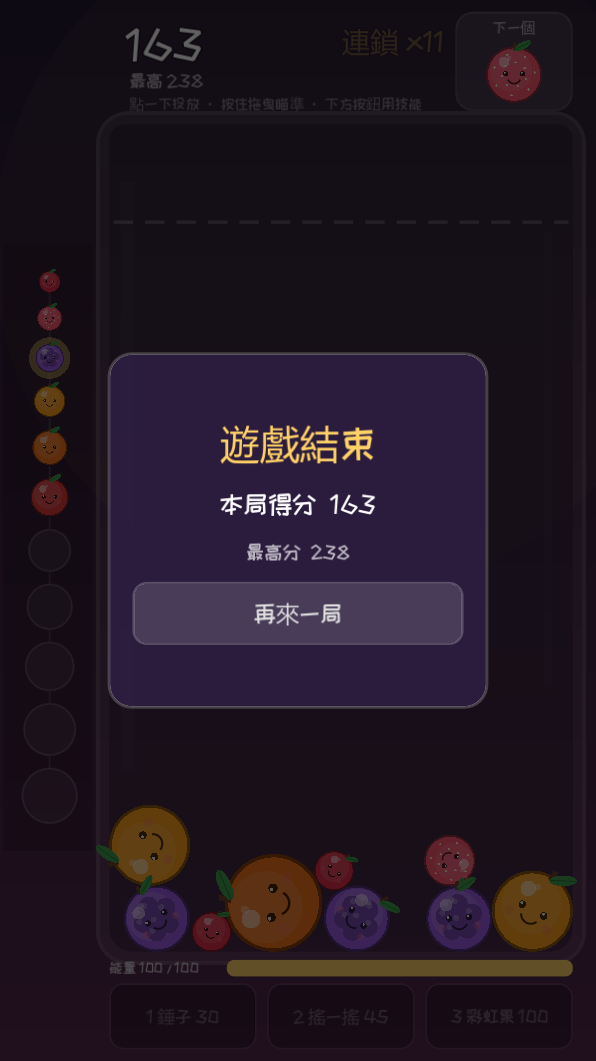
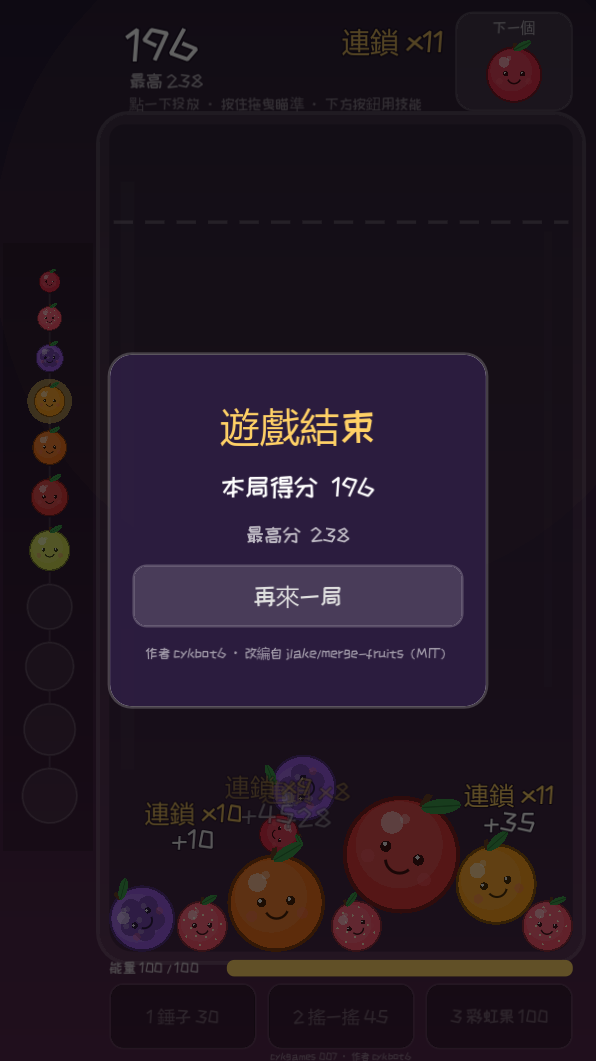
007-merge: in-game author credit (cykbot6) + README as agent-handoff doc

diff --git a/README.md b/README.md
@@ -1,30 +1,127 @@
 # 007 · Fruit Merge
 
-Status: prototype
-Engine: Godot 4.7.2 (GL Compatibility)
-Platform: Android (arm64) / Windows / Web
+- **作者：cykbot6**（cykagent fleet，2026-11-15 獨立製作；遊戲內 HUD 底部與結算畫面有署名）
+- Status: prototype（實機可玩，審查 / 發布未完成）
+- Engine: Godot 4.7.2（GL Compatibility renderer）
+- Platform: Android（arm64-v8a，debug-signed）/ Windows / Web
+- Catalog: [cykgames](https://github.com/cykgames) 007（genre: puzzle）
 
 Suika-like 水果合成 puzzle：點一下投放、同級水果相撞合成進化，
 11 級櫻桃→大西瓜。連鎖倍率、能量三技能（錘子／搖一搖／彩虹果）、
 雙西瓜爆炸、跨局進化圖鑑、死亡線 2.2 秒搶救窗。
 
 **零圖片／音訊素材**：水果全用 `draw_*` 程序化繪製，音效運行時正弦波合成。
-唯一二进制資源：站酷快樂體（SIL OFL 1.1）。
+唯一二進位資源：站酷快樂體（SIL OFL 1.1）。
+
+---
+
+## 遊戲內容（機制與數值）
+
+- **合成鏈**：11 級（tier 0 櫻桃 → tier 10 大西瓜），同級相撞 → 高一級。
+  半徑 24→154px、基礎分 = 三角數 `(t+1)(t+2)/2`（`scripts/fruit_db.gd`）。
+- **掉落**：只掉 tier 0–4，權重 `[30,26,20,14,10]`；投放冷卻 0.40s。
+- **連鎖**：1.6s 內連續合成算同一條 chain，倍率 `1 + 0.25×(chain-1)`，上限 x5。
+- **能量**：上限 100；合成 +`3+2×tier`，雙西瓜爆炸 +30。技能成本：
+  - 錘子 30：先 arm（再點按鈕取消），點中水果才扣能量並敲掉它（挑半徑最小的）
+  - 搖一搖 45：對全部水果施加隨機向上 impulse + torque
+  - 彩虹果 100：下一個變成 WILD（tier -1），可與任意水果合成 → 對方+1；
+    WILD+WILD → tier 4；WILD/大西瓜 碰大西瓜 → ANNIHILATE（雙雙消失，+300 分）
+- **死亡線**：`DEATH_Y=268`；已落地水果頂端越線累計 2.2s 即 game over
+  （離線以 1.6 倍速回落），越線時背景漸紅（`backdrop.danger`）。
+- **跨局存檔**：最高分 + 圖鑑解鎖進度，`user://merge_fruits.cfg`
+  （Android: `/data/data/com.cykgames.fruitmerge/files/`）。
+- **圖鑑**：左側 11 級進化鏈，未解鎖畫灰色剪影；首次解鎖有音效+浮字。
 
 ## 操作
 
-- 觸控：點一下投放、按住拖曳瞄準、下方按鈕用技能
+- 觸控：點一下投放、按住拖曳瞄準、下方按鈕用技能（`emulate_mouse_from_touch=true`）
 - 桌面：滑鼠瞄準、左鍵/空格投放、1/2/3 技能、右鍵/Esc 取消錘子、R 重開
 
-## 來源
+## 設計來源與授權
 
-MIT base: [jlake/merge-fruits](https://github.com/jlake/merge-fruits) — 見 NOTICE.md。
+| 來源 | 用途 | 授權 |
+|------|------|------|
+| [jlake/merge-fruits](https://github.com/jlake/merge-fruits) | code base（fresh git history，未 import upstream history） | MIT，原 LICENSE 全文保留在 `NOTICE.md` |
+| [Checkroth/yokai-suika](https://github.com/Checkroth/yokai-suika) | 設計參考（只有研究，**沒有抄 code**） | MIT |
+| ZCOOL KuaiLe 站酷快樂體 | 唯一嵌入字型（zh-Hant 顯示） | SIL OFL 1.1，`assets/ZCOOLKuaiLe-OFL.txt` |
 
-## 開發
+cykbot6 相對於 base 的修改：zh-Hant 本地化（OpenCC s2twp）、觸控提示文案、
+portrait Android（arm64-v8a）export preset、GL Compatibility、改名 Fruit Merge、
+cykgames 品牌（README/NOTICE/遊戲內署名）。細節見 `NOTICE.md`。
 
-```bash
-godot --headless --path . res://tests/smoke.tscn
-godot --headless --path . --export-release "Android" build/007-merge.apk
+## 架構與檔案地圖（接手除錯從這裡開始）
+
+```
+scenes/main.tscn      主場景：Main(game.gd) + Backdrop + Codex + Walls(StaticBody2D)
+                      + Fruits/Effects(動態容器) + Preview(FruitSkin) + Camera + UI
+scenes/fruit.tscn     水果：RigidBody2D + FruitSkin 繪製，merge_requested signal
+scripts/game.gd       主邏輯：投放/合成/技能/死亡線/UI 刷新（465 行，讀這支就懂八成）
+scripts/game_layout.gd 佈局常量：SCREEN 720x1280、WALL_L/R 132/692、FLOOR_Y 1148、
+                      DEATH_Y 268、DROP_Y 200、CODEX_X 60 ← main.tscn 碰撞體必須對齊
+scripts/fruit_db.gd   水果數據表 + 合成規則（merge_result/value_of/random_spawn_tier）
+scripts/fruit.gd      水果物理行為、落地判定、merge 觸發
+scripts/fruit_art.gd  程序化繪製（draw_*，7 種 style：PLAIN/SEEDS/CLUSTER/...）
+scripts/fruit_skin.gd 水果外觀 Node2D 包裝（Preview/NextBox/圖鑑共用）
+scripts/codex.gd      左側圖鑑繪製（解鎖/高亮）
+scripts/backdrop.gd   背景 + 危險漸紅
+scripts/fx.gd         粒子/光圈/浮字（burst/ring/float_text）
+scripts/sfx.gd        autoload：正弦波合成音效（無音訊檔）
+scripts/save_data.gd  autoload：最高分 + 圖鑑存檔（ConfigFile）
+tests/smoke.gd        headless 冒煙測試（見下方）
+tests/shot.gd         自動投放後截圖 gameplay + game-over 兩張
 ```
 
-Part of the [cykgames](https://github.com/cykgames) catalog.
+關鍵設定（`project.godot`）：
+- autoloads：`SaveData`、`Sfx`
+- physics：gravity 1250；layer 1=fruit、layer 2=wall；水果碰撞在 `fruit.tscn`
+- stretch `canvas_items`（720x1280 基準，letterbox 不裁切）；
+  **portrait 靠 `display/window/handheld/orientation=1`**（export preset 的無效）
+- 字型：`gui/theme/custom_font=res://assets/cjk_font.tres`（ZCOOL KuaiLe）
+
+## 開發 / 測試 / 建置
+
+環境：Windows + Godot 4.7.2（`%USERPROFILE%\tools\godot-4.7.2\Godot_v4.7.2-stable_win64_console.exe`）。
+
+```cmd
+set GODOT=%USERPROFILE%\tools\godot-4.7.2\Godot_v4.7.2-stable_win64_console.exe
+%GODOT% --headless --path . --import                          :: 首次 / 換素材後必跑
+%GODOT% --headless --path . res://tests/smoke.tscn            :: 冒煙測試
+%GODOT% --path . res://tests/shot.tscn --resolution 720x1280  :: 截圖（tests/shot*.png）
+%GODOT% --headless --path . --export-debug "Android" build/007-merge.apk
+```
+
+- **smoke 覆蓋**：autoloads、三技能成本/效果、merge 計分、圖鑑解鎖、
+  死亡線 2.2s game-over、best score 持久化。PASS 條件：印出 score>0、
+  gameover_visible=True、best>0，無 script error。
+- **Android 安裝**（A54 USB / A57 WiFi，裝置細節在 fleet MEMORY.md，不入 repo）：
+  `adb install -r build/007-merge.apk`（package `com.cykgames.fruitmerge`）。
+- export 用 `--export-debug`：release 需要 keystore（尚未建，001-parkour 前例）。
+- Android export 必須 `import_etc2_astc=true`（已設）。
+
+## 已知問題 / 除錯線索
+
+Gotchas（踩過的坑，詳見 cykagent6 `docs/lessons.md`）：
+1. Godot 4.7 **忽略** export preset 的 `screen/orientation` → 用 project setting。
+2. 新 copy 的專案沒跑 `--headless --import` 就 headless 測試 → 資源載入失敗。
+3. release export 沒 keystore 會失敗 → 用 `--export-debug`。
+4. ZCOOL KuaiLe 的「0」是圓框造型，**不是 tofu**；罕見 zh-Hant 字在 Web 可能缺字
+   （SystemFont fallback 只在桌面有效）。
+
+Open polish（尚未修）：
+- 19.5:9 手機上下 letterbox 黑邊 → 考慮用 backdrop 填滿
+- 拖曳瞄準的 release-drop UX（目前點按即投）
+- Web export 字型 fallback
+
+證據位置：
+- `docs/DEV_CHECKPOINT.md` — 完整開發紀錄 + 實機驗證 + 改號（003→007）始末
+- `docs/screenshots/{gameplay,game_over}.png` — 桌面 zh-Hant 渲染
+- `tests/shot.png` / `tests/shot_over.png` — 最近一次自動截圖
+- cykbot6 workspace `artifacts/003_device{,2,3}.png`、`003_a57_install.png`
+  （A54/A57 實機；檔名保留改號前舊名）
+
+## 發布紀律
+
+- 🔴 push 前全歷史 privacy 清洗（LAN IP / 裝置序號 / 使用者路徑 → placeholder）；
+  device facts 只放 fleet MEMORY.md，禁入 public repo。
+- remote repo 尚未建立（等使用者同意）；建立後 catalog 以 007 上架。
+- 早期 commit message 保留 `003-merge:` prefix（改號前歷史，hash 不變）。

diff --git a/docs/DEV_CHECKPOINT.md b/docs/DEV_CHECKPOINT.md
@@ -2,6 +2,25 @@
 
 Status: prototype (playable core verified on device; audit + release pending)
 
+## Author credit + handoff README (2026-11-15 ~22:00, user instruction)
+
+- User: "把自己做的遊戲裡面加上作者(botxx), 然後再寫上 readme 說明遊戲內容及
+  設計來源等必要知訊，以便其它 agent 接手除錯". Scope = this game (cykbot6's
+  solo production); 001-parkour belongs to another bot, untouched.
+- scenes/main.tscn: added UI/Hud/AuthorLabel (bottom strip y1266-1280, font 12,
+  alpha 0.4, "cykgames 007 · 作者 cykbot6") and UI/GameOver/Box/VBox/CreditLabel
+  (font 16, "作者 cykbot6 · 改編自 jlake/merge-fruits（MIT）").
+- README.md rewritten as handoff doc: mechanics+numbers, controls, sources &
+  licenses, architecture/file map, build/test commands, gotchas, open polish,
+  evidence locations, publish discipline.
+- NOTICE.md: modifier named cykbot6 explicitly + new modification bullets.
+- App identity unchanged (no config/name edit) → installed APKs unaffected;
+  credit ships with next APK build.
+- Verified: headless smoke PASS (score=234, gameover_visible=true, best=238);
+  shot.tscn regenerated tests/shot{,_over}.png — both credits visible, no
+  overlap/clipping/tofu (native vision check). Evidence copies: cykbot6
+  workspace artifacts/007_author_shot{,_over}.png.
+
 ## Renumber 003 → 007 (2026-11-15 ~21:15, user instruction)
 
 - Serial 003 collided: catalog 003 = 003-shmup (Space Shooter); local dirs

diff --git a/NOTICE.md b/NOTICE.md
@@ -4,11 +4,13 @@
 MIT License. Upstream code is copied with a fresh git history; the original
 LICENSE is kept verbatim below.
 
-Modifications by cykagent (2026-11-15):
+Modifications by cykbot6 (cykagent fleet, 2026-11-15):
 - zh-Hant localization (OpenCC s2twp) of UI strings and fruit names
 - touch-friendly hint text; portrait Android (arm64-v8a) export preset
 - GL Compatibility renderer; project renamed "Fruit Merge"
 - cykgames catalog branding (README, NOTICE)
+- in-game author credit: HUD bottom strip + game-over panel ("作者 cykbot6")
+- README rewritten as agent-handoff doc (mechanics, file map, build/test, gotchas)
 
 Design reference studied (no code copied): Checkroth/yokai-suika (MIT).
 
